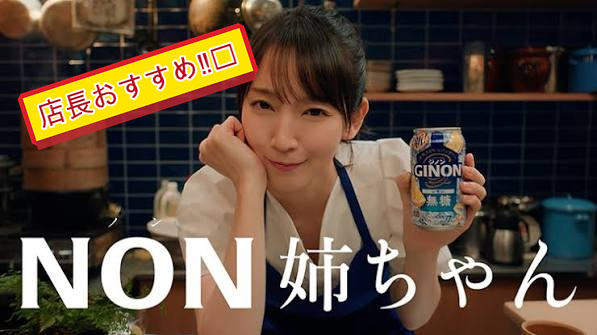
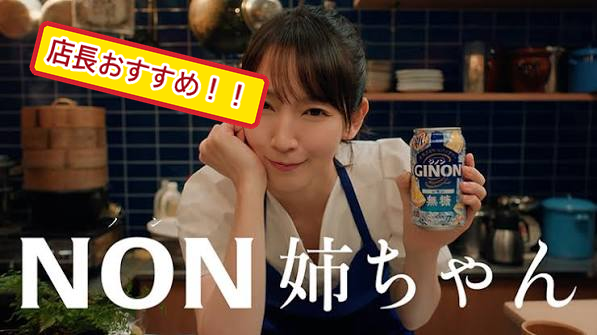
Fix GINON badge text mojibake using Gothic font and fullwidth marks.

Changed region(s): [[0.0302, 0.0597, 0.4523, 0.4478]]

diff --git a/lib/storeDrinkDessertMenu.ts b/lib/storeDrinkDessertMenu.ts
@@ -443,7 +443,7 @@ const DRINK_COCKTAIL: StoreMenuItem[] = [
 
 const DRINK_SOUR: StoreMenuItem[] = [
   sour("sour_ginon_lemon", "無糖レモンサワー ジノン", 520, {
-    image: "/store-menu/sour-ginon-lemon.png?v=20261115",
+    image: "/store-menu/sour-ginon-lemon.png?v=20261116",
     imageFit: "contain",
     imageBanner: true,
     imageWidth: 597,
